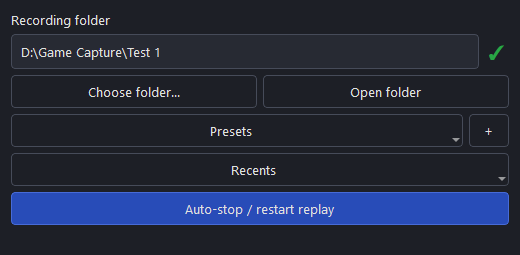
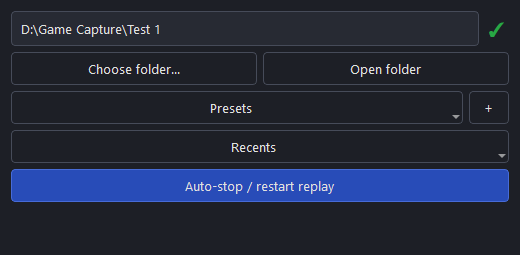
Remove preset table corner and redundant recording folder label

diff --git a/src/folder-dock.cpp b/src/folder-dock.cpp
@@ -50,13 +50,10 @@ FolderDock::FolderDock(QWidget *parent, const QString &settingsFile) : QWidget(p
 	folderWatcher_ = new QFileSystemWatcher(this);
 	connect(folderWatcher_, &QFileSystemWatcher::directoryChanged, this, [this] { refresh(); });
 	auto *layout = new QVBoxLayout(this);
-	auto *label = new QLabel(tr("Recording folder"), this);
-	layout->addWidget(label);
 	path_ = new QLineEdit(this);
 	path_->setObjectName("recordingFolderPath");
 	path_->setReadOnly(true);
 	path_->setAccessibleName(tr("Current recording folder"));
-	label->setBuddy(path_);
 	auto *pathRow = new QHBoxLayout;
 	pathRow->addWidget(path_, 1);
 	folderAccess_ = new QLabel(this);

diff --git a/src/folder-locations.cpp b/src/folder-locations.cpp
@@ -127,6 +127,8 @@ void FolderDock::editPresets()
 	auto *table = new QTableWidget(static_cast<int>(locations_.size()), 2, dialog);
 	table->setObjectName("presetTable");
 	table->setHorizontalHeaderLabels({tr("Name"), tr("Folder path")});
+	table->verticalHeader()->hide();
+	table->setCornerButtonEnabled(false);
 	table->horizontalHeader()->setStretchLastSection(true);
 	table->setSelectionBehavior(QAbstractItemView::SelectRows);
 	table->setSelectionMode(QAbstractItemView::SingleSelection);
